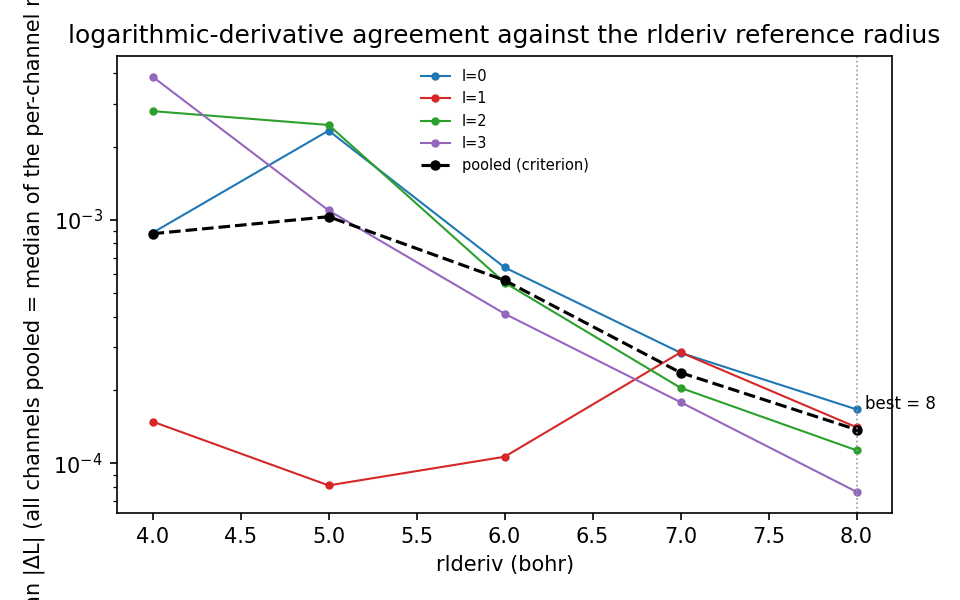
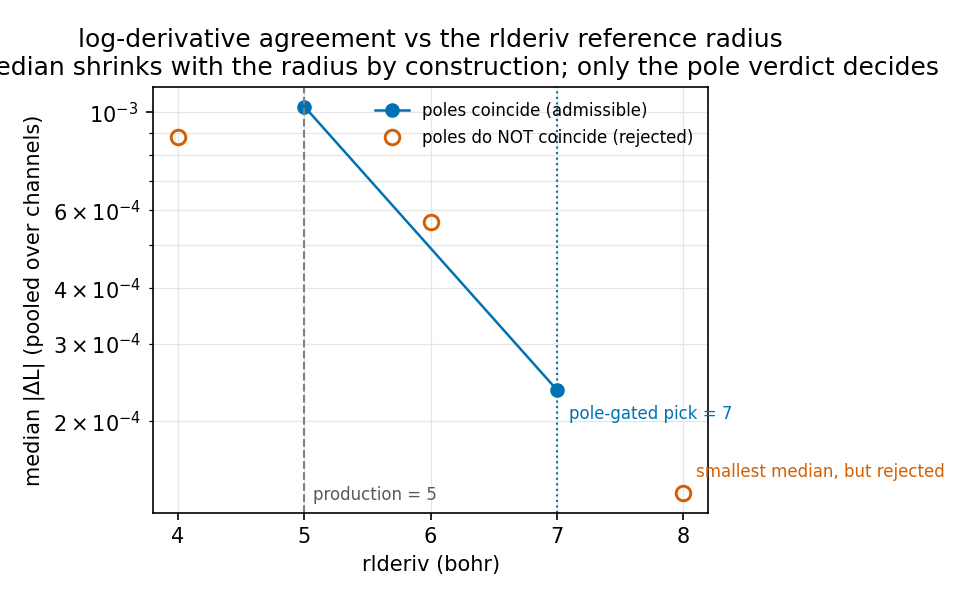
fig_rlderiv: show the pole verdict, mark the production value
The figure annotated 'best = 8' from the pooled median while the report now picks 7 by
the pole gate, so it contradicted the table. Filled markers are admissible points (poles
coincide), open markers are rejected ones, the smallest median is labelled as rejected,
and the production radius (5) is drawn.

diff --git a/src/aiida_ld1_scripts/report.py b/src/aiida_ld1_scripts/report.py
@@ -113,30 +113,53 @@ def figure_logderiv(plt, node, out: Path, *, window=(-3.0, 3.0),
 
 
 def figure_rlderiv(plt, summary: Dict[str, Any], out: Path) -> Optional[Path]:
-    """Median ``|dL|`` against ``rlderiv``, one line per channel plus the pooled one."""
+    """Pooled median ``|dL|`` against ``rlderiv``, with the pole verdict marked.
+
+    Filled marker = the pole test passes at that radius, open marker = it fails.  The
+    verdict, not the median, is what decides: see the README ("what the scan cannot
+    decide").  The production value is drawn so nobody has to guess which radius was used.
+    """
     scan = summary.get('rlderiv_scan') or []
     if not scan:
         return None
     import numpy as np
 
-    channels = sorted({channel for entry in scan for channel in entry.get('per_channel', {})})
+    production = summary.get('criteria', {}).get('production_rlderiv')
     figure, axis = plt.subplots(figsize=(6.4, 4.0))
-    for channel, colour in zip(channels, COLOURS):
-        values = [entry['per_channel'].get(channel, {}).get('median', np.nan) for entry in scan]
-        axis.semilogy([entry['rlderiv'] for entry in scan], values, 'o-',
-                      color=colour, ms=3, lw=1.0, label=channel)
-    axis.semilogy([entry['rlderiv'] for entry in scan],
-                  [entry['pooled_median'] for entry in scan], 'k--o', ms=4,
-                  label='pooled (criterion)')
-    best = summary.get('best_rlderiv')
-    if best:
-        axis.axvline(best['rlderiv'], color='0.6', ls=':', lw=0.8)
-        axis.annotate(f"best = {best['rlderiv']:g}", xy=(best['rlderiv'], best['pooled_median']),
-                      xytext=(4, 10), textcoords='offset points', fontsize=8)
+    passed = [entry for entry in scan if entry['poles_all_coincide']]
+    failed = [entry for entry in scan if not entry['poles_all_coincide']]
+    axis.semilogy([entry['rlderiv'] for entry in passed],
+                  [entry['pooled_median'] for entry in passed], 'o-',
+                  color='#0072B2', ms=6, lw=1.2, label='poles coincide (admissible)')
+    axis.semilogy([entry['rlderiv'] for entry in failed],
+                  [entry['pooled_median'] for entry in failed], 'o',
+                  mfc='none', mec='#D55E00', ms=7, mew=1.4,
+                  label='poles do NOT coincide (rejected)')
+    best = summary.get('best_rlderiv') or {}
+    if best.get('rlderiv') is not None:
+        axis.axvline(best['rlderiv'], color='#0072B2', ls=':', lw=1.0)
+        axis.annotate(f"pole-gated pick = {best['rlderiv']:g}",
+                      xy=(best['rlderiv'], best['pooled_median']),
+                      xytext=(6, -14), textcoords='offset points',
+                      fontsize=8, color='#0072B2')
+    if production is not None:
+        axis.axvline(production, color='0.5', ls='--', lw=1.0)
+        axis.annotate(f'production = {production:g}', xy=(production, 0.0),
+                      xycoords=('data', 'axes fraction'), xytext=(4, 6),
+                      textcoords='offset points', fontsize=8, color='0.35')
+    smallest = min(scan, key=lambda entry: entry['pooled_median'])
+    if not smallest['poles_all_coincide']:
+        axis.annotate('smallest median, but rejected',
+                      xy=(smallest['rlderiv'], smallest['pooled_median']),
+                      xytext=(6, 8), textcoords='offset points', fontsize=8,
+                      color='#D55E00')
     axis.set_xlabel('rlderiv (bohr)')
-    axis.set_ylabel('median |ΔL| (all channels pooled = median of the per-channel medians)')
-    axis.set_title('logarithmic-derivative agreement against the rlderiv reference radius')
-    axis.legend(fontsize=7, frameon=False)
+    axis.set_ylabel('median |ΔL| (pooled over channels)')
+    axis.set_title('log-derivative agreement vs the rlderiv reference radius\n'
+                   'the median shrinks with the radius by construction; only the '
+                   'pole verdict decides')
+    axis.grid(True, which='both', color='0.9', lw=0.6)
+    axis.legend(fontsize=8, frameon=False, loc='upper right')
     figure.tight_layout()
     figure.savefig(out, dpi=150)
     plt.close(figure)

diff --git a/src/aiida_ld1_scripts/recipe.py b/src/aiida_ld1_scripts/recipe.py
@@ -63,4 +63,5 @@ def analysis_settings(recipe: Dict[str, Any]) -> Dict[str, Any]:
         'pole_threshold': float(scan.get('pole_threshold', 20.0)),
         'pole_tolerance': float(scan.get('pole_tolerance', 0.04)),
         'grid_step': float(config.get('deld', 0.02)),
+        'production_rlderiv': float(config.get('rlderiv', 0.0)),
     }
